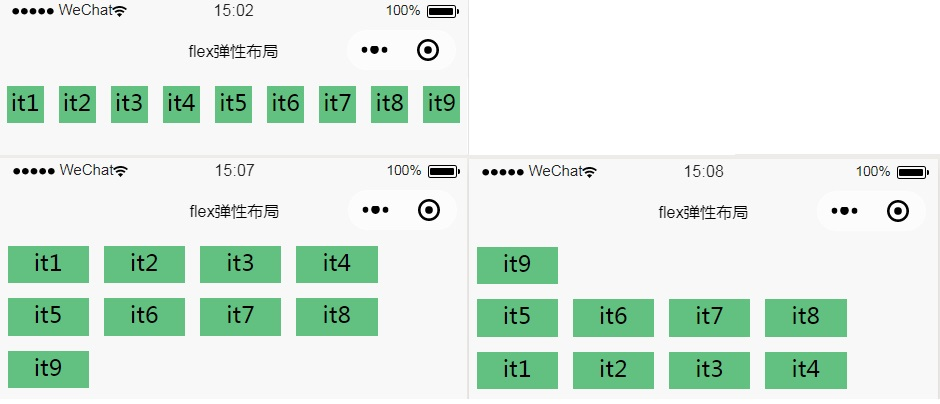
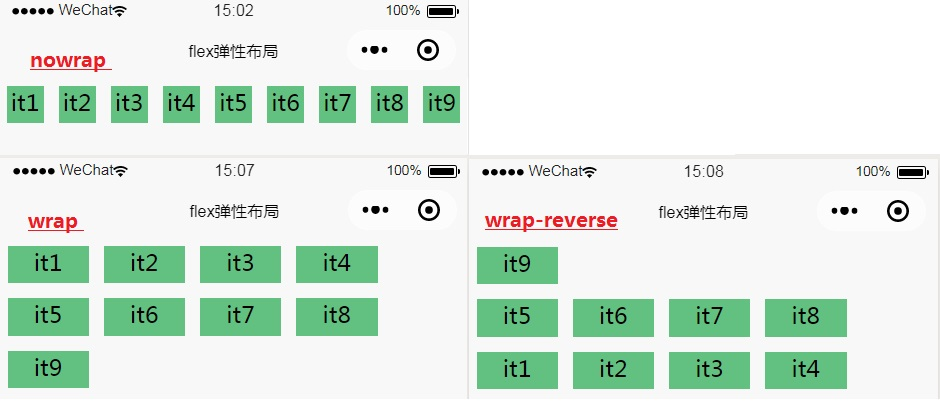
h5添加图片

Changed region(s): [[0.4936, 0.5347, 0.6787, 0.5941], [0.0309, 0.1188, 0.1234, 0.1782], [0.0309, 0.5347, 0.0926, 0.5941]]

diff --git a/H5/css-flex样式.md b/H5/css-flex样式.md
@@ -1,0 +1,114 @@
+# CSS样式相关
+主要是一些css样式说明
+
+## flex弹性布局
+### 1.基本显示
+- wxml(微信小程序页面)
+```
+<view class="box">
+  <view class='item'>item1</view>
+  <view class='item'>item2</view>
+  <view class='item'>item3</view>
+</view>
+```
+- wxss(微信小程序样式)
+```
+.box{
+  display: flex;
+  flex-direction: row;/* 主轴方向为row, 即子元素水平左向右排序 */
+}
+.item{
+  width: 200rpx;
+  height: 200rpx;
+  background: #089e3a9f;
+  margin: 12rpx;
+}
+```
+- 显示如下：
+![](https://raw.githubusercontent.com/hlwLianwei/docs/master/H5/images/flex_01.jpg)
+### 2.容器的属性
+- 采用 Flex 布局的元素，称为 Flex 容器（flex container），简称"容器"。它的所有子元素自动成为容器成员，称为 Flex 项目（flex item），简称"项目"。
+- 容器默认存在两根轴：主轴(main axis)和交叉轴(cross axis)(与主轴垂直交叉)，主轴方向即可以是水平方向，也可以是竖直方向。主轴的开始位置（与边框的交叉点）叫做main start，结束位置叫做main end, 交叉轴的开始位置叫做cross start，结束位置叫做cross end。
+- 项目默认沿主轴排列。单个项目占据的主轴空间叫做main size，占据的交叉轴空间叫做cross size。
+- 以下6个属性设置在容器上:
+```
+/* 决定主轴的方向（即子元素的排列方向） */
+flex-direction
+/* 默认子元素都排在一条线上。如果排不下，确定如何换行 */
+flex-wrap
+/*flex-flow属性是flex-direction属性和flex-wrap属性的简写形式，默认值为row nowrap。*/
+flex-flow
+/*justify-content属性定义了子元素在主轴上的对齐方式。*/
+justify-content
+/*align-items属性定义子元素在交叉轴上如何对齐。*/
+align-items
+/* align-content属性定义了多根轴线的对齐方式。如果元素内只有一根轴线，该属性不起作用。*/
+align-content
+```
+
+#### 2.1 flex-direction属性
+```
+.box {
+  /* 决定主轴的方向（即子元素的排列方向） */
+  flex-direction: row | row-reverse | column | column-reverse;
+}
+```
+![](https://raw.githubusercontent.com/hlwLianwei/docs/master/H5/images/flex_02.jpg)
+
+#### 2.2 flex-wrap属性
+```
+.box{
+  display: flex;
+  flex-direction: row;
+  /* 默认子元素都排在一条线上。如果排不下，确定如何换行 */
+  flex-wrap: nowrap | wrap | wrap-reverse;
+}
+```
+![](https://raw.githubusercontent.com/hlwLianwei/docs/master/H5/images/flex_03.jpg)
+![](https://raw.githubusercontent.com/hlwLianwei/docs/master/H5/images/flex_04.jpg)
+    nowrap（默认）：不换行。
+    wrap：换行，第一行在上方。
+    wrap-reverse：换行，第一行在下方。 
+
+#### 2.3 flex-flow属性
+flex-flow属性是flex-direction属性和flex-wrap属性的简写形式，默认值为row nowrap。
+```
+.box {
+  flex-flow: <flex-direction> || <flex-wrap>;
+}
+```
+
+#### 2.4 justify-content属性
+```
+.box {
+  display: flex;
+  flex-direction: row;
+  flex-wrap: nowrap;  
+  /* 定义子元素在主轴上的对齐方式 */
+  justify-content: flex-start | flex-end | center | space-between | space-around;
+}
+```
+    flex-start（默认值）：子元素左对齐
+    flex-end：子元素右对齐
+    center： 子元素居中
+    space-between：子元素两端对齐，子元素之间的间隔都相等。
+    space-around：每个子元素两侧的间隔相等。所以，子元素之间的间隔比子元素与边框的间隔大一倍。
+![](https://raw.githubusercontent.com/hlwLianwei/docs/master/H5/images/flex_05.jpg)
+
+#### 2.5 align-items属性
+```
+.box {
+  display: flex;
+  flex-direction: row;
+  flex-wrap: nowrap;
+  justify-content: center;
+  /* 定义子元素在交叉轴上如何对齐 */
+  align-items:flex-start | flex-end | center | baseline | stretch;
+}
+```
+    flex-start：交叉轴的起点对齐。
+    flex-end：交叉轴的终点对齐。
+    center：交叉轴的中点对齐。
+    baseline: 项目的第一行文字的基线对齐。
+    stretch（默认值）：如果项目未设置高度或设为auto，将占满整个容器的高度。
+![](https://raw.githubusercontent.com/hlwLianwei/docs/master/H5/images/flex_06.jpg)
